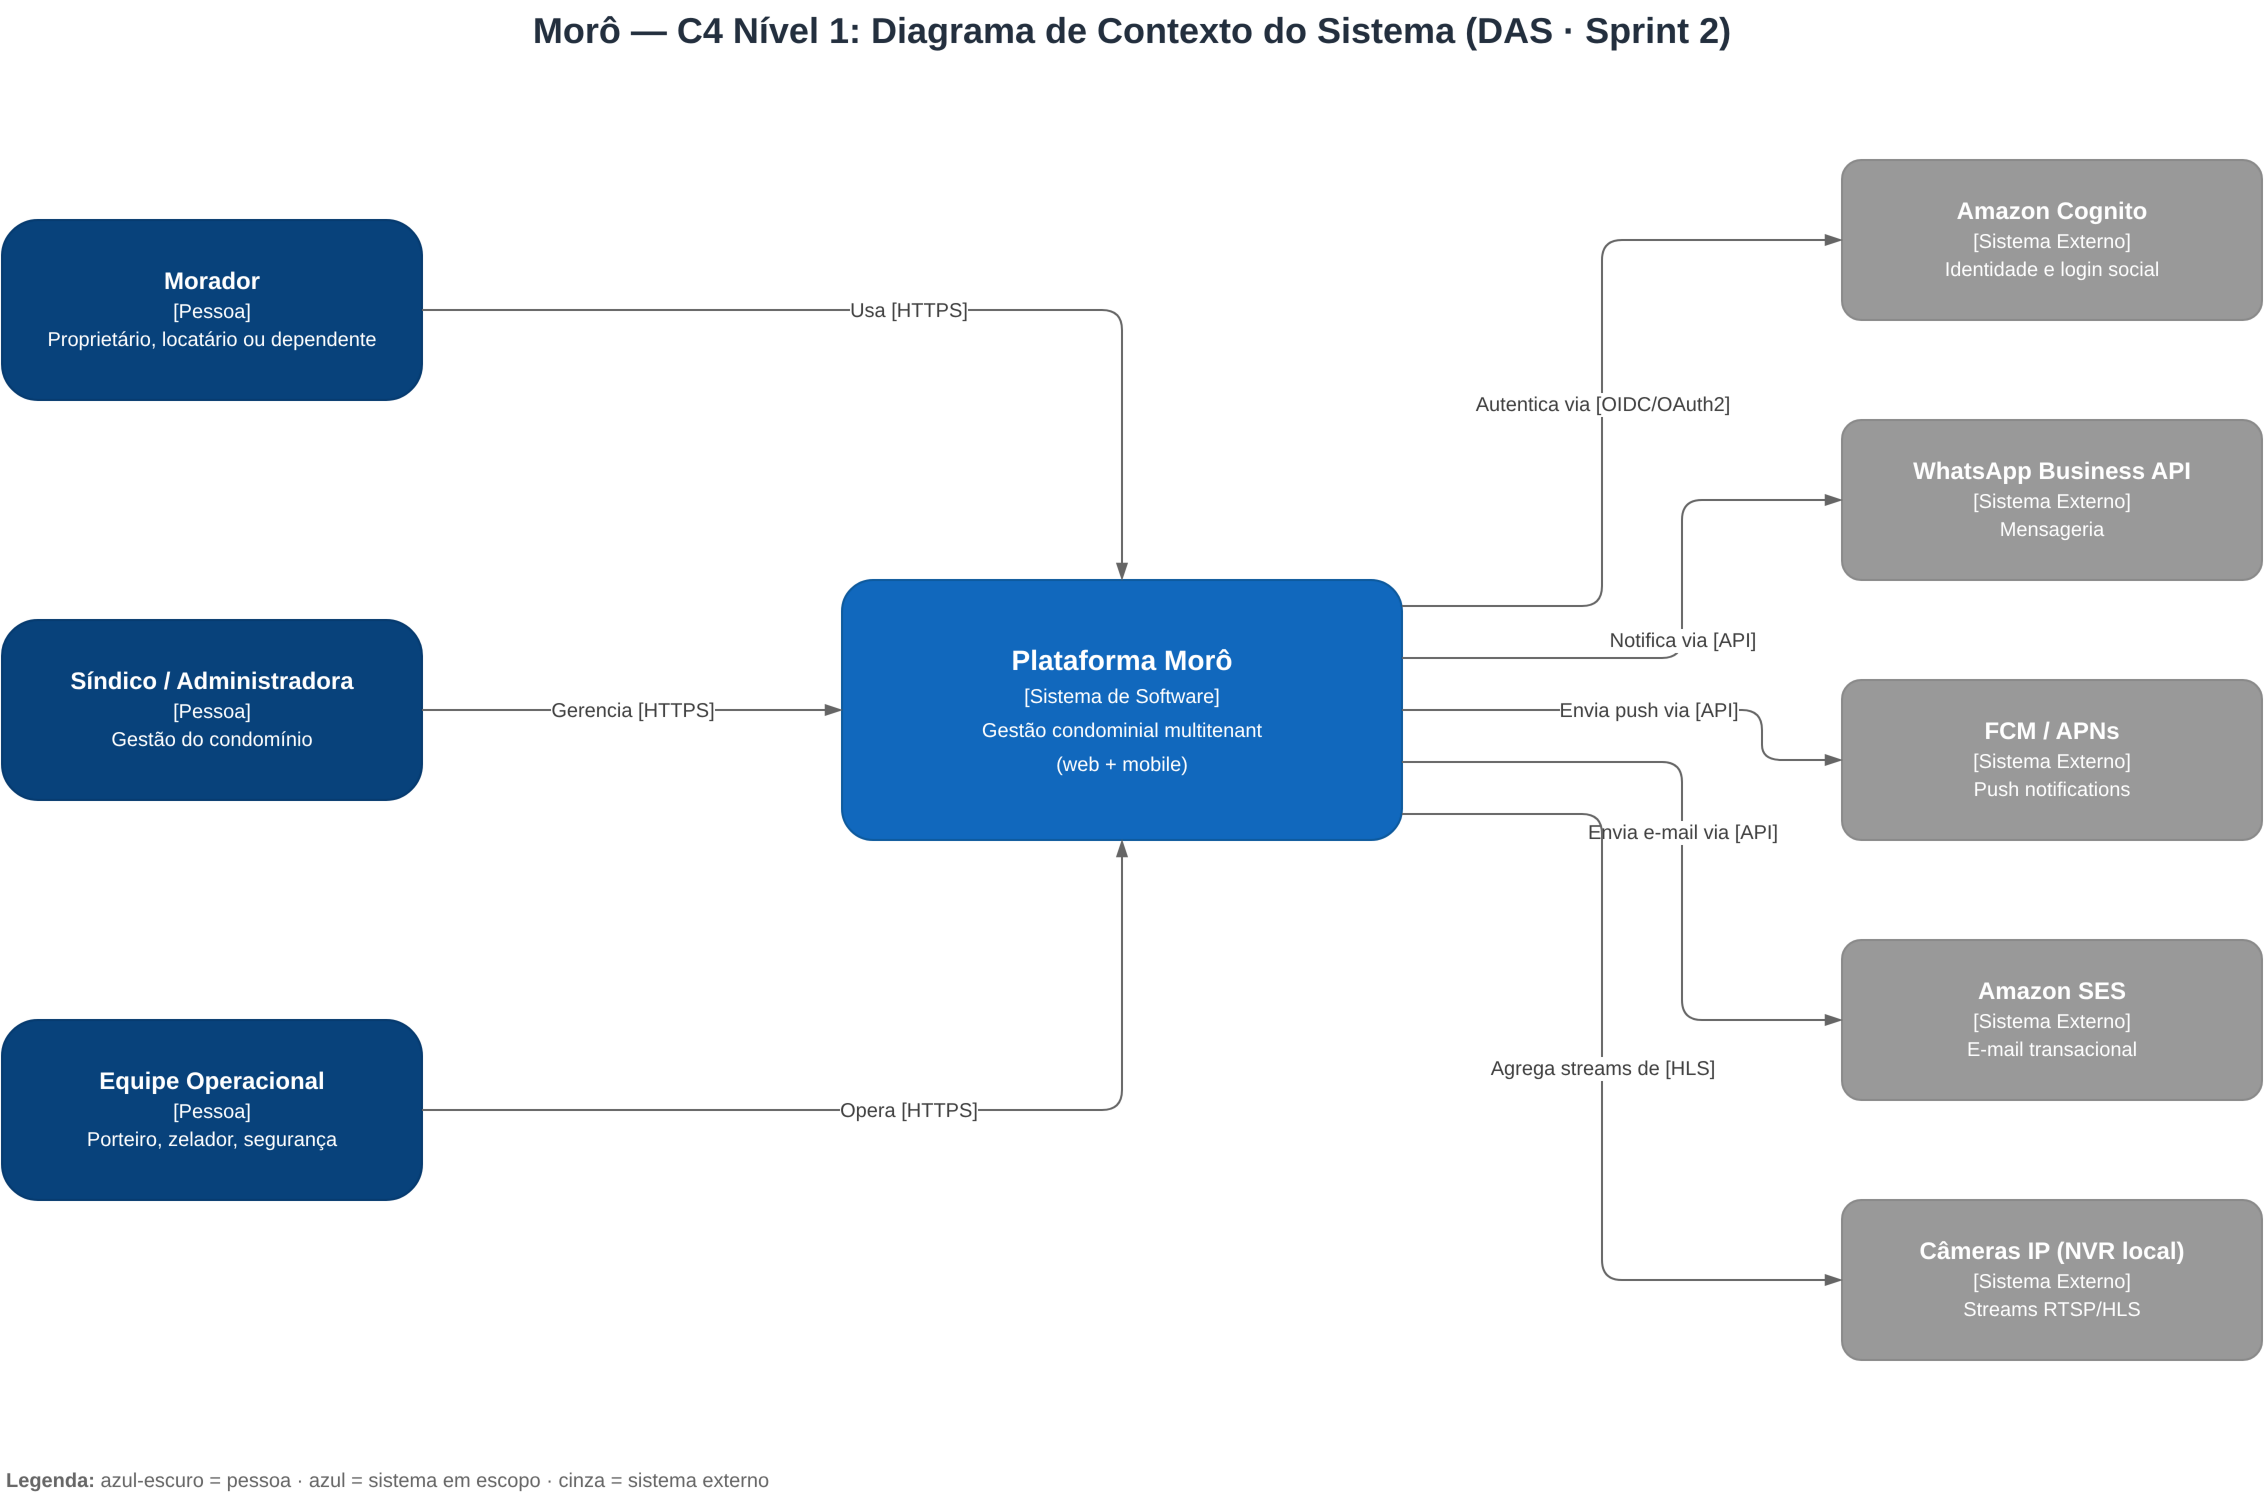
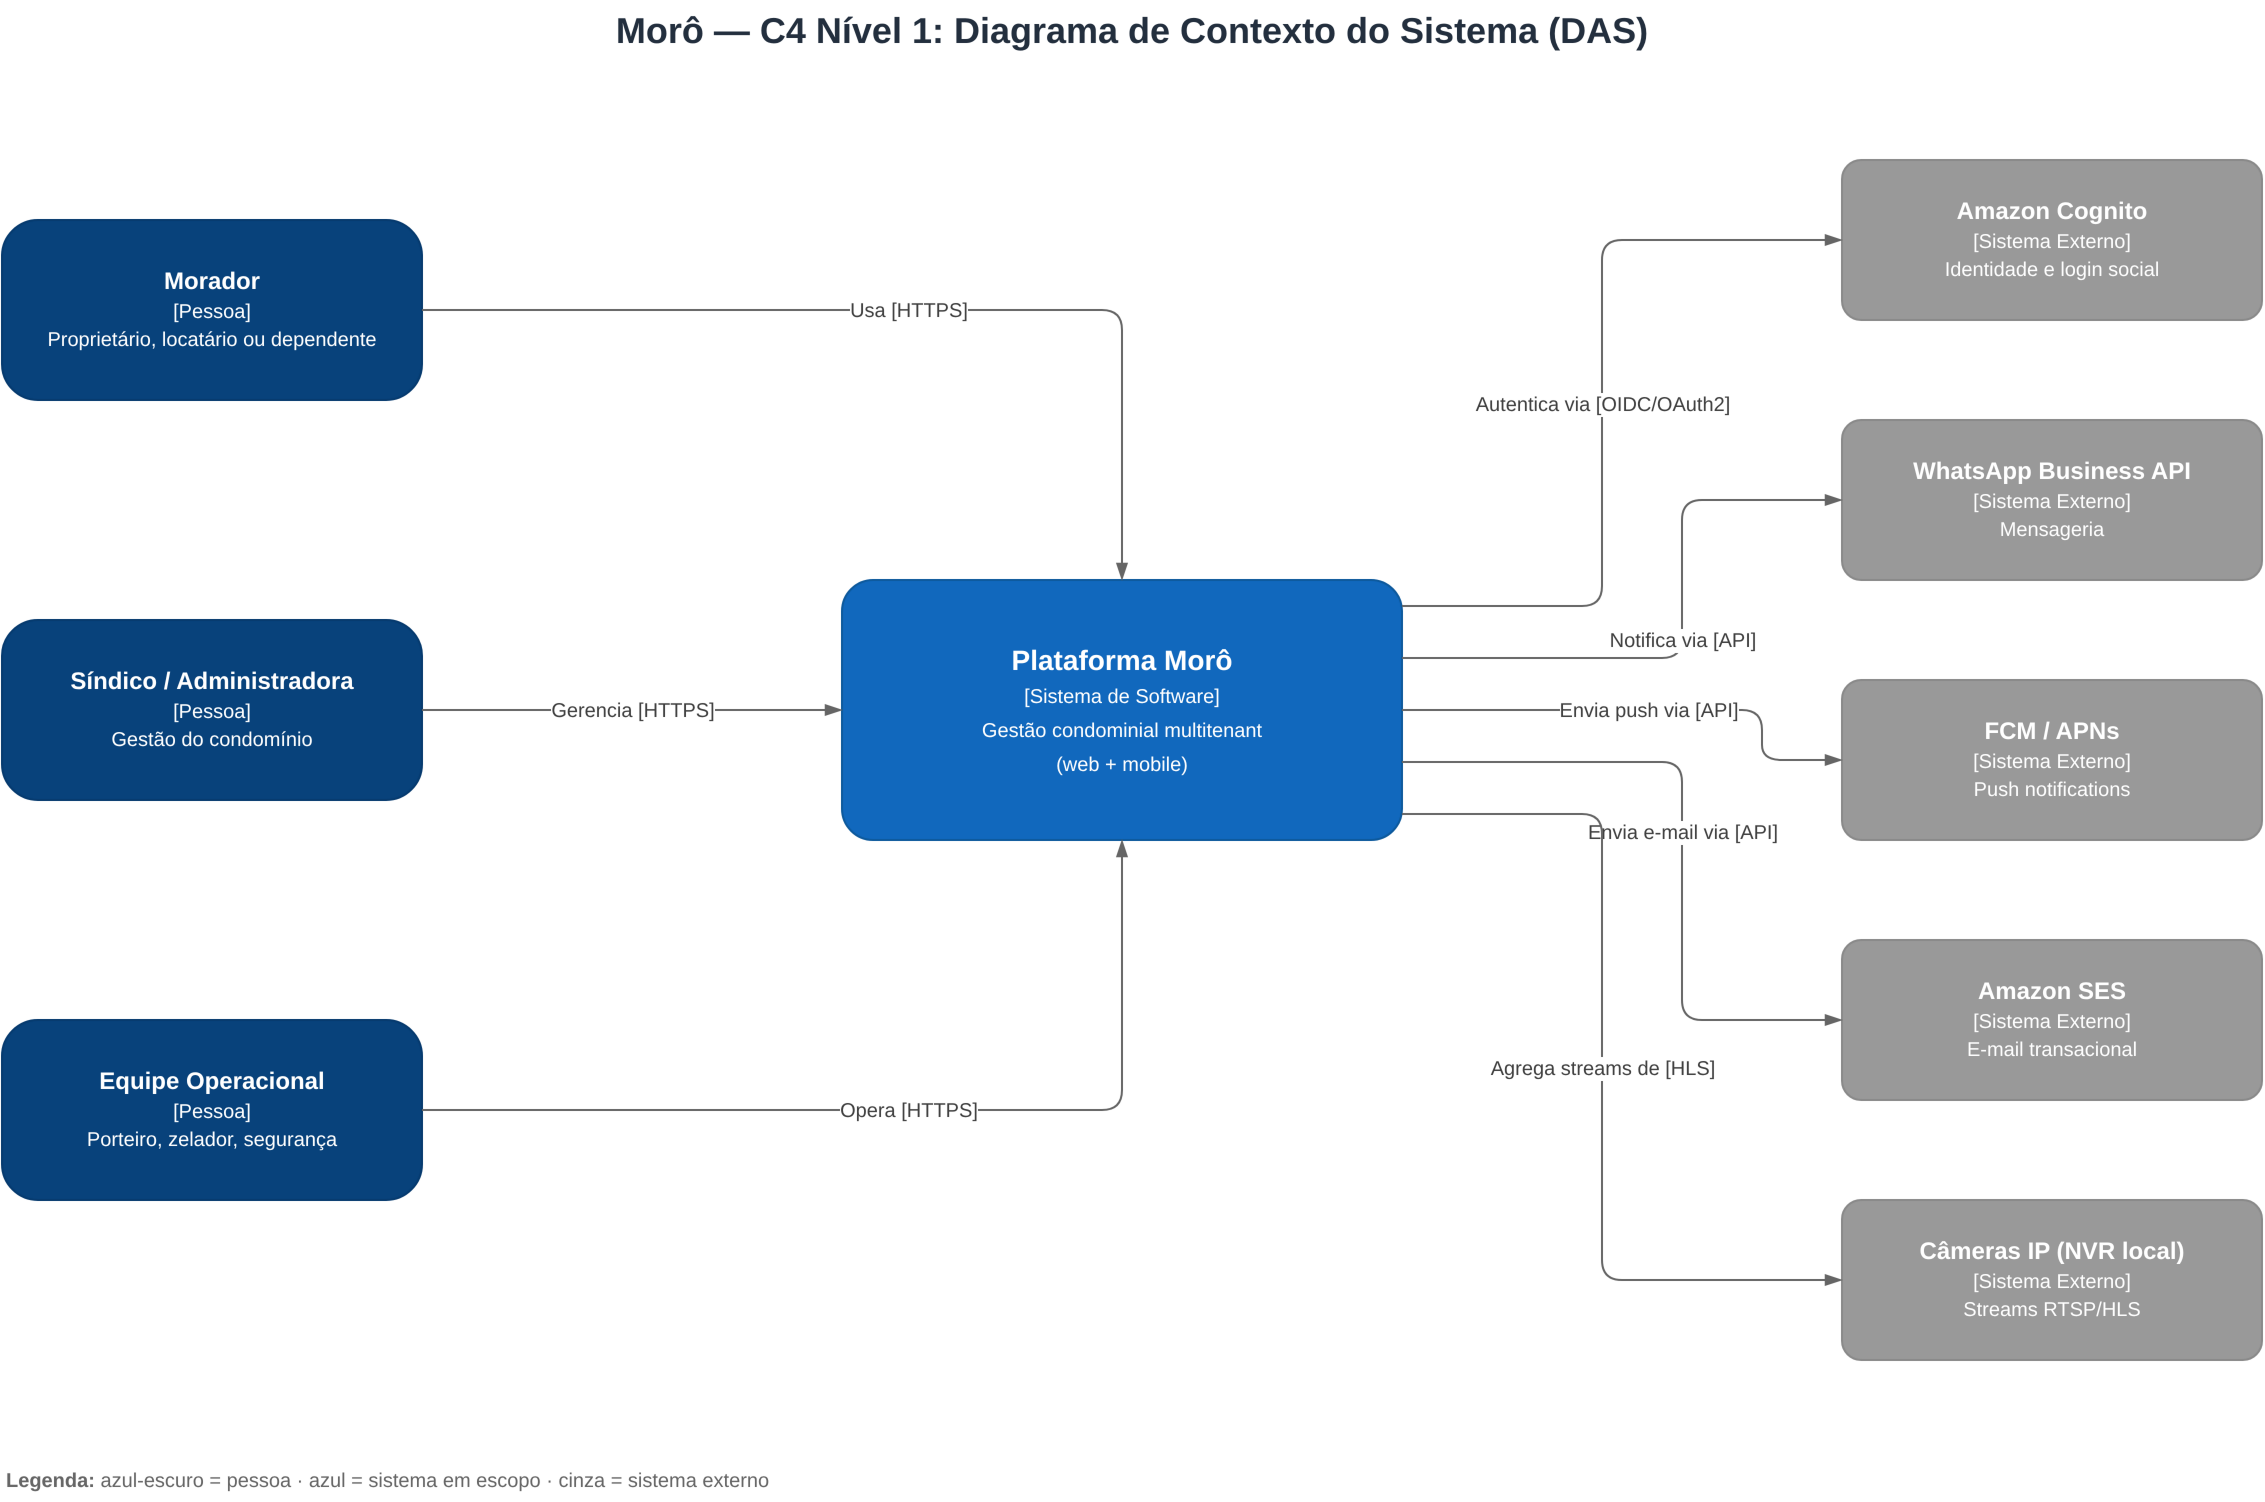
Ajustes Sprint 2 — C4 somente em draw.io
Capítulo c4-model.md passa a usar apenas os diagramas draw.io
(exports PNG), sem Mermaid; títulos das páginas sem o sufixo
"· Sprint 2", seguindo o padrão da Sprint 1.

Changed region(s): [[0.2163, 0.0, 0.7726, 0.0306]]

diff --git a/das/c4-model.md b/das/c4-model.md
@@ -4,127 +4,38 @@ Notação **C4 Model** (Simon Brown): níveis de Contexto, Contêineres e
 Componentes. O nível de Código é representado pela própria organização de
 pacotes do MVP (`mvp/backend/internal`).
 
-> **Diagramas draw.io:** os três níveis estão versionados em
-> [`c4-model.drawio`](c4-model.drawio) (uma página por nível) e exportados em
-> PNG: [nível 1](c4-nivel1-contexto.png) · [nível 2](c4-nivel2-conteineres.png)
-> · [nível 3](c4-nivel3-componentes.png). Os diagramas Mermaid abaixo são a
-> versão renderizável no próprio GitHub.
+> Os três níveis estão versionados em [`c4-model.drawio`](c4-model.drawio)
+> (uma página por nível), no mesmo estilo draw.io da
+> [topologia AWS](das.drawio) da Sprint 1.
 
 ## 3.1 Nível 1 — Contexto do Sistema
 
-```mermaid
-C4Context
-    title Morô — Diagrama de Contexto
-
-    Person(morador, "Morador", "Proprietário, locatário ou dependente")
-    Person(sindico, "Síndico / Administradora", "Gestão do condomínio")
-    Person(operacao, "Equipe Operacional", "Porteiro, zelador, segurança")
-
-    System(moro, "Plataforma Morô", "Gestão condominial multitenant (web + mobile)")
-
-    System_Ext(cognito, "Amazon Cognito", "Identidade e login social")
-    System_Ext(whats, "WhatsApp Business API", "Mensageria")
-    System_Ext(fcm, "FCM / APNs", "Push notifications")
-    System_Ext(ses, "Amazon SES", "E-mail transacional")
-    System_Ext(cam, "Câmeras IP (NVR local)", "Streams RTSP/HLS")
-
-    Rel(morador, moro, "Usa", "HTTPS")
-    Rel(sindico, moro, "Gerencia", "HTTPS")
-    Rel(operacao, moro, "Opera", "HTTPS")
-
-    Rel(moro, cognito, "Autentica via", "OIDC/OAuth2")
-    Rel(moro, whats, "Notifica via", "API")
-    Rel(moro, fcm, "Envia push via", "API")
-    Rel(moro, ses, "Envia e-mail via", "API")
-    Rel(moro, cam, "Agrega streams de", "HLS")
-```
+Pessoas (Morador, Síndico/Administradora, Equipe Operacional), a Plataforma
+Morô e os sistemas externos: Amazon Cognito (identidade/login social),
+WhatsApp Business API, FCM/APNs (push), Amazon SES (e-mail) e câmeras IP
+(NVR local, streams RTSP/HLS).
 
 ![C4 Nível 1 — Contexto](c4-nivel1-contexto.png)
 
 ## 3.2 Nível 2 — Contêineres
 
-```mermaid
-C4Container
-    title Morô — Diagrama de Contêineres
-
-    Person(usuario, "Usuários", "Morador, Síndico, Operação")
-
-    System_Boundary(moro, "Plataforma Morô") {
-        Container(mobile, "App Mobile", "Flutter", "iOS + Android, base única")
-        Container(web, "Dashboard Web", "React + Vite", "Gestão para síndico/administradora")
-        Container(cdn, "CloudFront + S3", "CDN", "Entrega do dashboard e assets")
-        Container(alb, "Application Load Balancer", "AWS ALB", "Entrada HTTPS, health checks")
-        Container(api, "API REST", "Go (chi)", "Regras de negócio, RBAC, multitenancy")
-        Container(worker, "Notification Worker", "Go", "Consome SQS e despacha multicanal")
-        ContainerDb(aurora, "Aurora PostgreSQL", "Serverless v2", "Dados transacionais, isolados por tenant_id")
-        ContainerDb(redis, "ElastiCache Redis", "Cache", "Cache multicamada, sessões efêmeras")
-        Container(sns, "SNS + SQS", "Mensageria", "Fan-out de eventos de domínio")
-        Container(s3, "S3 Uploads", "Object Storage", "Anexos: fotos, comprovantes, documentos")
-    }
-
-    System_Ext(cognito, "Amazon Cognito", "Identidade")
-    System_Ext(canais, "FCM/APNs · WhatsApp · SES", "Canais de notificação")
-
-    Rel(usuario, mobile, "Usa", "HTTPS")
-    Rel(usuario, web, "Usa", "HTTPS")
-    Rel(web, cdn, "Servido por")
-    Rel(mobile, alb, "Chama API", "HTTPS/JSON")
-    Rel(web, alb, "Chama API", "HTTPS/JSON")
-    Rel(alb, api, "Encaminha", "HTTP")
-    Rel(api, aurora, "Lê/escreve", "SQL/TLS")
-    Rel(api, redis, "Cacheia", "RESP")
-    Rel(api, s3, "Armazena anexos", "S3 API")
-    Rel(api, sns, "Publica eventos")
-    Rel(sns, worker, "Entrega via SQS")
-    Rel(worker, canais, "Despacha")
-    Rel(api, cognito, "Valida tokens")
-```
+App Mobile (Flutter · Redux), Dashboard Web (React + Vite · Redux Toolkit)
+servido por CloudFront + S3, ALB na entrada HTTPS, API REST (Go/chi · ECS
+Fargate) com regras de negócio/RBAC/multitenancy, Notification Worker (Go ·
+ECS Fargate) consumindo SQS, Aurora PostgreSQL Serverless v2 (dados isolados
+por `tenant_id`), ElastiCache Redis (cache multicamada), SNS + SQS (fan-out
+de eventos de domínio) e S3 Uploads (anexos).
 
 ![C4 Nível 2 — Contêineres](c4-nivel2-conteineres.png)
 
 ## 3.3 Nível 3 — Componentes (Contêiner: API REST)
 
-```mermaid
-C4Component
-    title Morô — Componentes da API REST (Go)
-
-    Container_Boundary(api, "API REST (Go)") {
-        Component(router, "Router", "chi", "Roteamento, middlewares, CORS")
-        Component(authmw, "Auth Middleware", "Go", "Valida JWT, injeta claims, RequireTenant/RequirePapel")
-        Component(authsvc, "Auth Service", "Go", "Login (bcrypt), seleção de tenant, RBAC")
-        Component(moradores, "Moradores", "Go", "F14 — pessoas, unidades, vínculos")
-        Component(ocorrencias, "Ocorrências", "Go", "F01 — workflow + timeline")
-        Component(mural, "Mural", "Go", "F03 — avisos + recibo de ciente")
-        Component(encomendas, "Encomendas", "Go", "F05 — ciclo de vida")
-        Component(financeiro, "Financeiro", "Go", "F16 — lançamentos + agregações")
-        Component(assembleia, "Assembleia", "Go", "F02 — pautas, voto ponderado, quórum")
-        Component(visitantes, "Visitantes", "Go", "F08 — convites, validação, acessos")
-        Component(rondas, "Rondas", "Go", "F11 — rotas, check-in, dashboard")
-        Component(portaria, "Portaria", "Go", "F12 — comunicação portaria↔morador")
-        Component(notif, "Notificações", "Go", "F18 — central transversal (in-app + preferências)")
-        Component(db, "DB Pool", "pgxpool", "Conexões com Aurora, retry")
-    }
-
-    ContainerDb(aurora, "Aurora PostgreSQL", "Serverless v2", "")
-    Container(sns, "SNS", "Mensageria", "")
-
-    Rel(router, authmw, "Aplica")
-    Rel(authmw, authsvc, "Usa")
-    Rel(router, moradores, "Encaminha")
-    Rel(router, ocorrencias, "Encaminha")
-    Rel(router, encomendas, "Encaminha")
-    Rel(router, assembleia, "Encaminha")
-    Rel(router, visitantes, "Encaminha")
-    Rel(router, rondas, "Encaminha")
-    Rel(router, portaria, "Encaminha")
-    Rel(moradores, db, "Consulta")
-    Rel(encomendas, notif, "Publica notificação")
-    Rel(portaria, notif, "Publica notificação")
-    Rel(visitantes, notif, "Publica notificação")
-    Rel(notif, db, "Consulta")
-    Rel(notif, sns, "Publica evento (produção)")
-    Rel(db, aurora, "TLS")
-```
+Router (chi) e Auth Middleware (JWT, `RequireTenant`/`RequirePapel`) na
+borda; componentes de feature — Moradores (F14), Ocorrências (F01), Mural
+(F03), Encomendas (F05), Financeiro (F16), Assembleia (F02), Visitantes
+(F08), Rondas (F11), Portaria (F12) — e a central transversal de
+Notificações (F18), todos acessando o Aurora via DB Pool (pgxpool) e
+publicando eventos no SNS.
 
 ![C4 Nível 3 — Componentes](c4-nivel3-componentes.png)
 